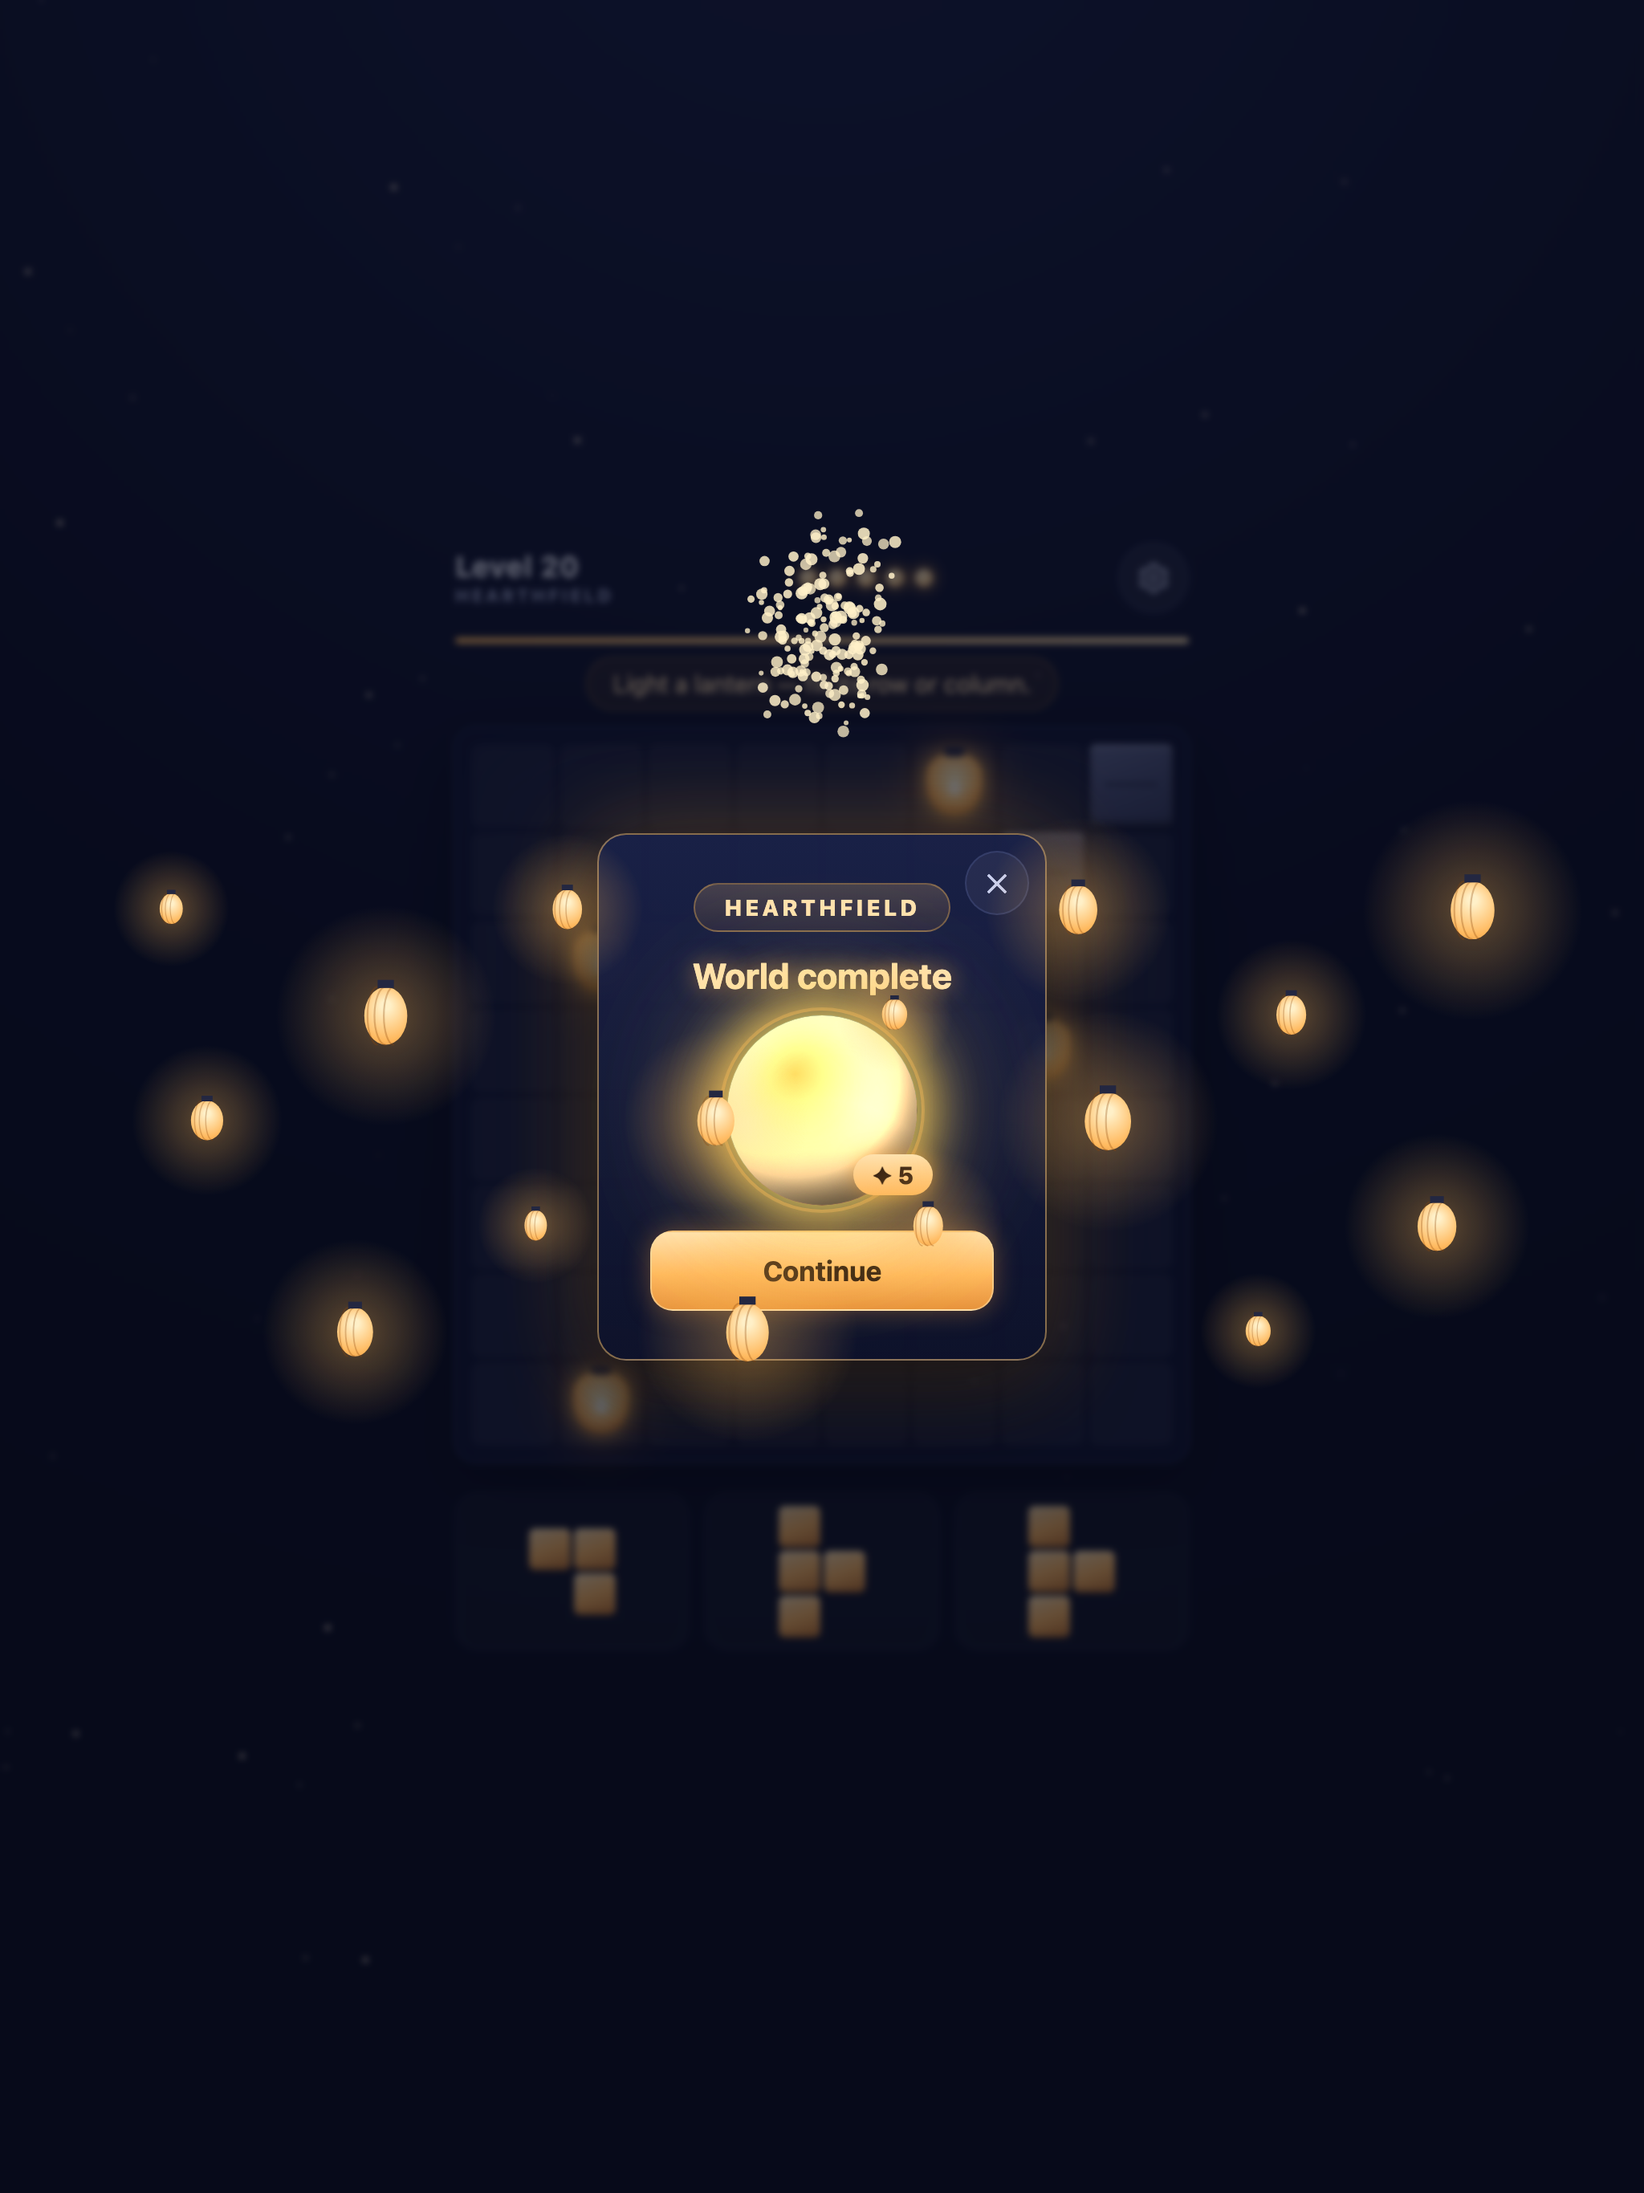
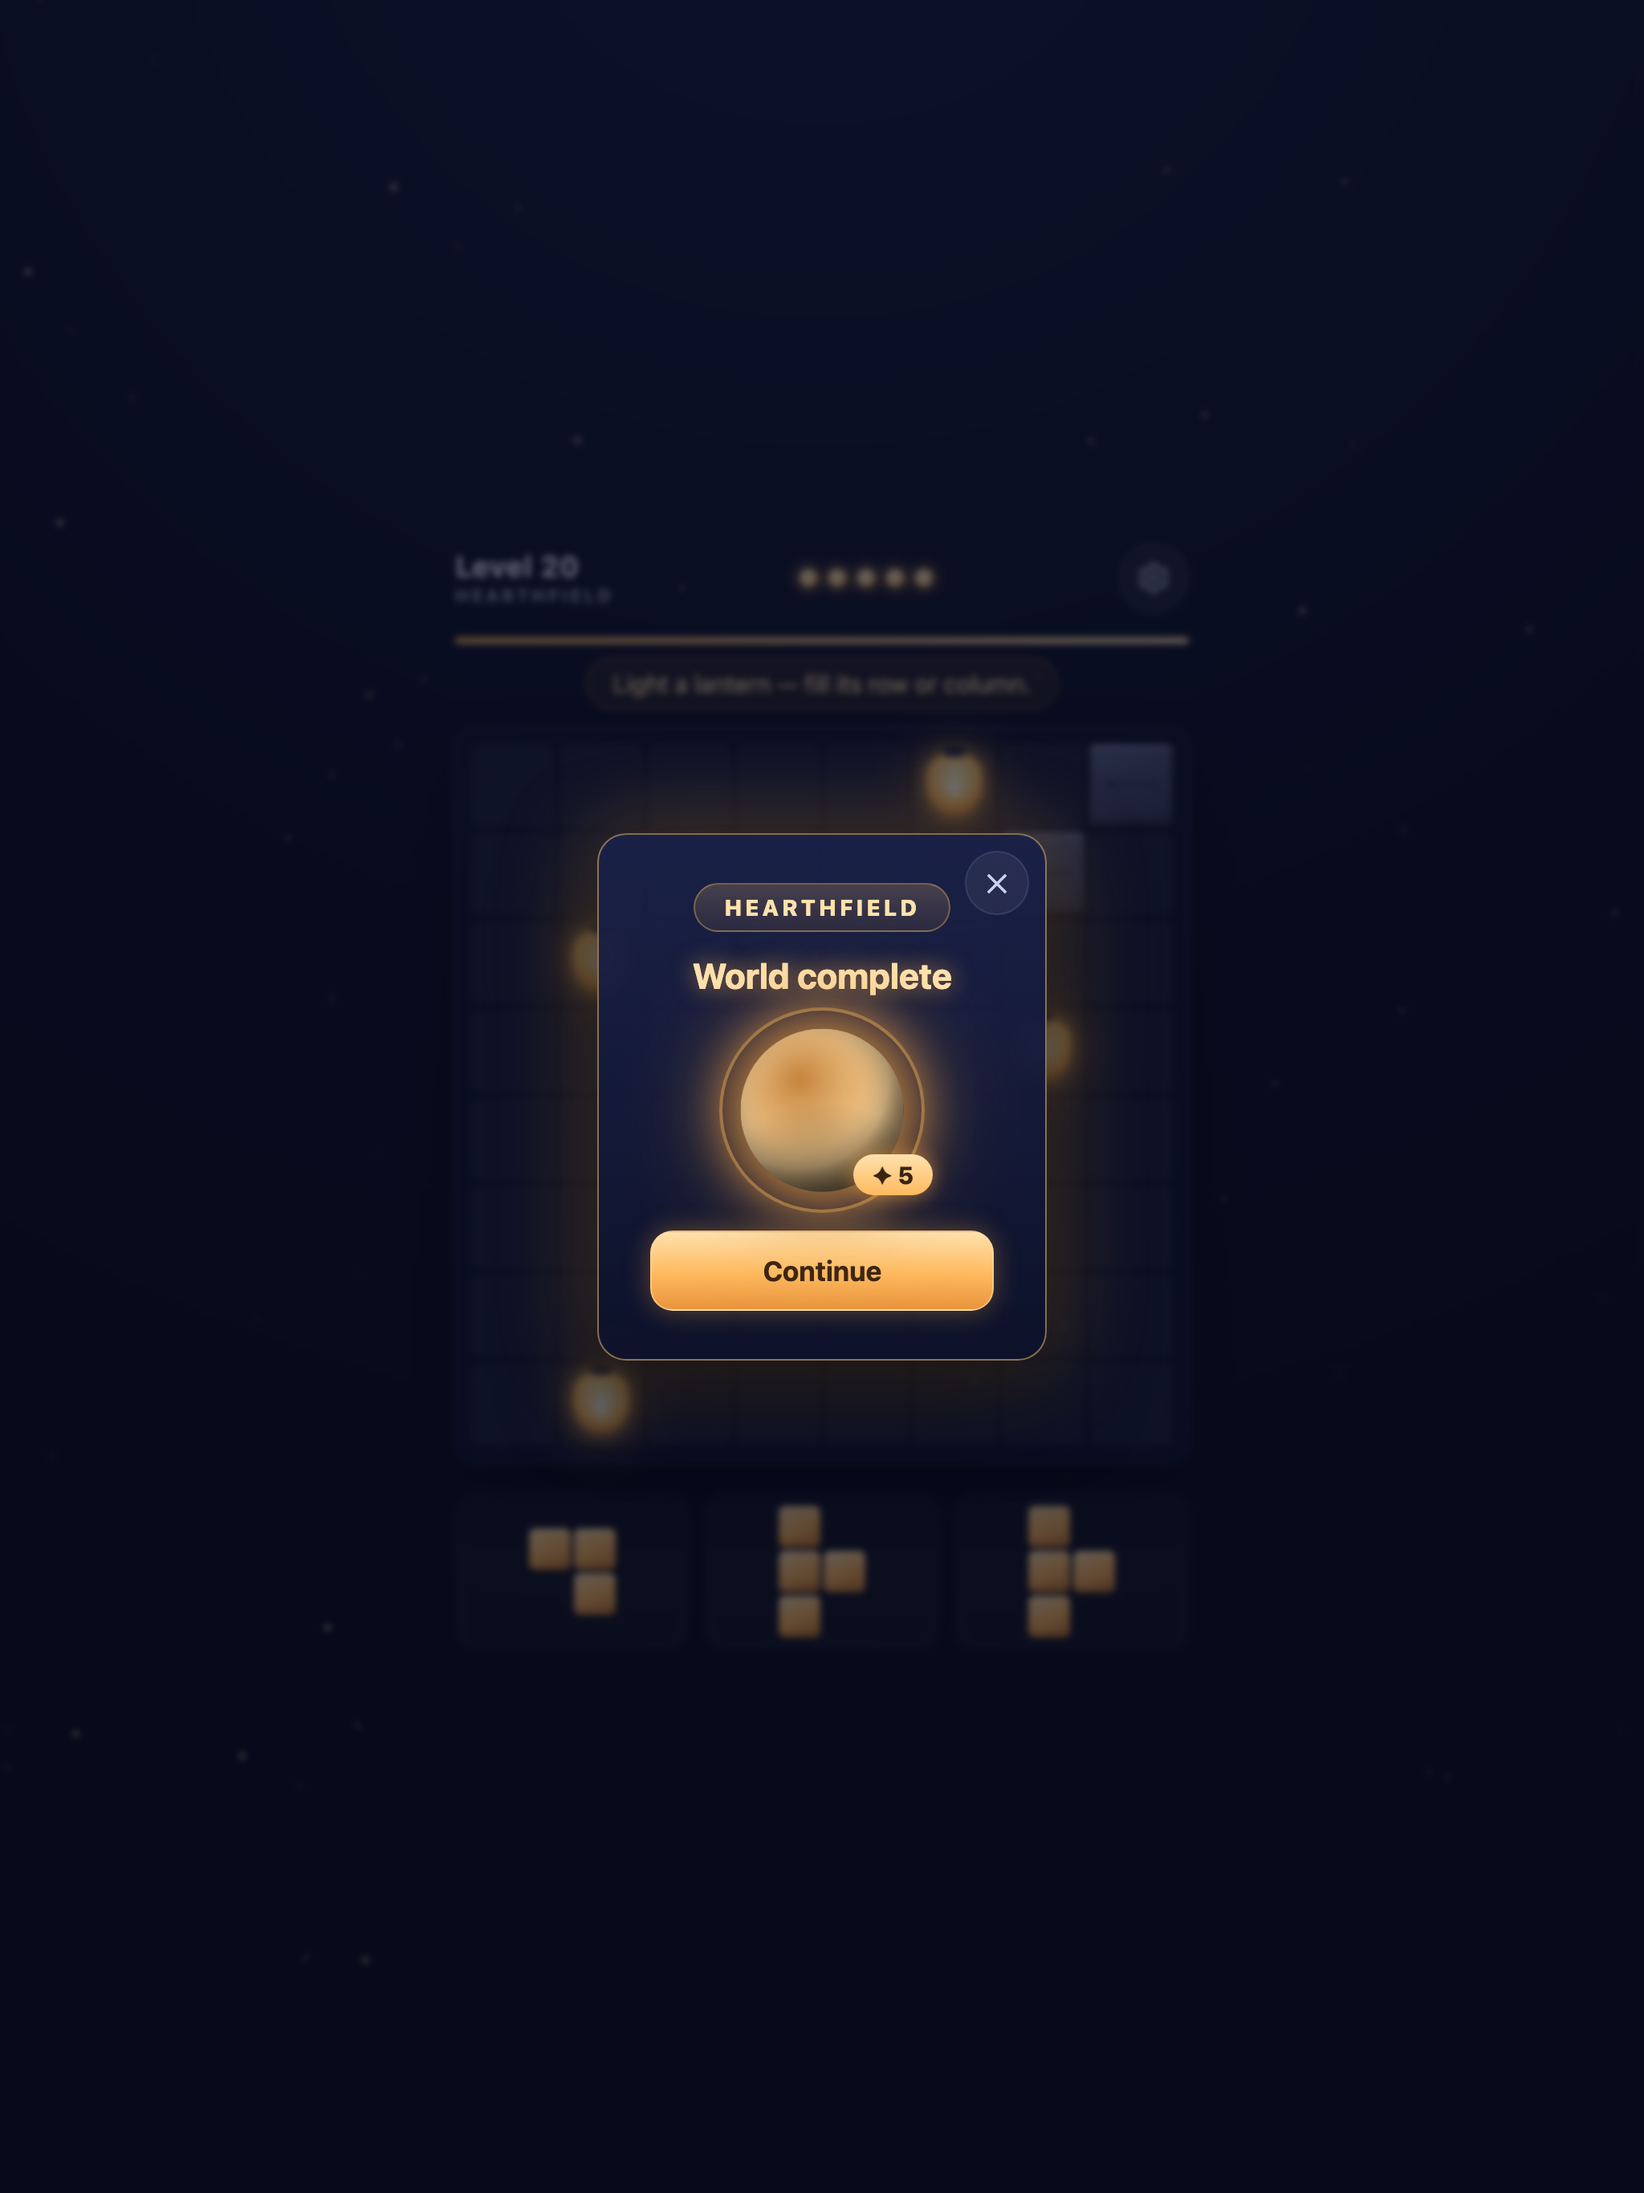
Screenshots: clean up the World-complete shot (no spark specks, centered)
The win/milestone capture read as off-center and noisy — the celebration's spark
burst froze mid-flight under headless rendering into a dense field of small dots,
pulling the visual weight off-axis (the card itself was always centered). For the
?shot=win capture, suppress FX.celebrate (sparks) and FX.floatLantern (bloom) so
the frame is just the clean, centered card — orb + "World complete" + ✦N + Continue
— over the dimmed lit board. Only the screenshot path changes; real play keeps the
full celebration. Regenerated both win shots.

diff --git a/web/js/game.js b/web/js/game.js
@@ -602,6 +602,8 @@
       }
       startLevel(n - 1);
       if (shot === "win") {                            // light it and pop the win / world card
+        FX.celebrate = function () {};                 // clean shot: no spark specks…
+        FX.floatLantern = function () {};              // …and no bloom lanterns over the card
         g.lanterns.forEach(l => l.lit = true); g.over = true; g.won = true;
         render(); showEnd();
       }
